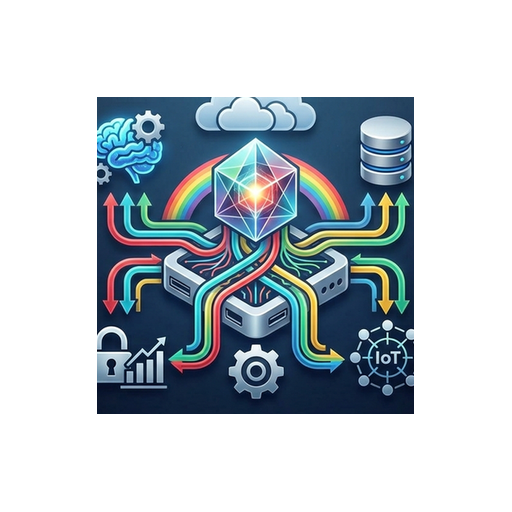
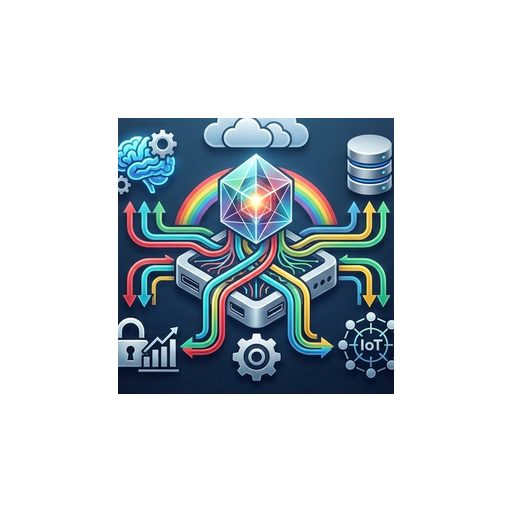
Add files via upload

Changed region(s): [[0.1875, 0.1875, 0.8125, 0.8125]]

diff --git a/service-worker.js b/service-worker.js
@@ -1,4 +1,4 @@
-const CACHE_NAME = 'integracion-shell-v7';
+const CACHE_NAME = 'integracion-shell-v9';
 const APP_SHELL = [
   './',
   'index.html',
